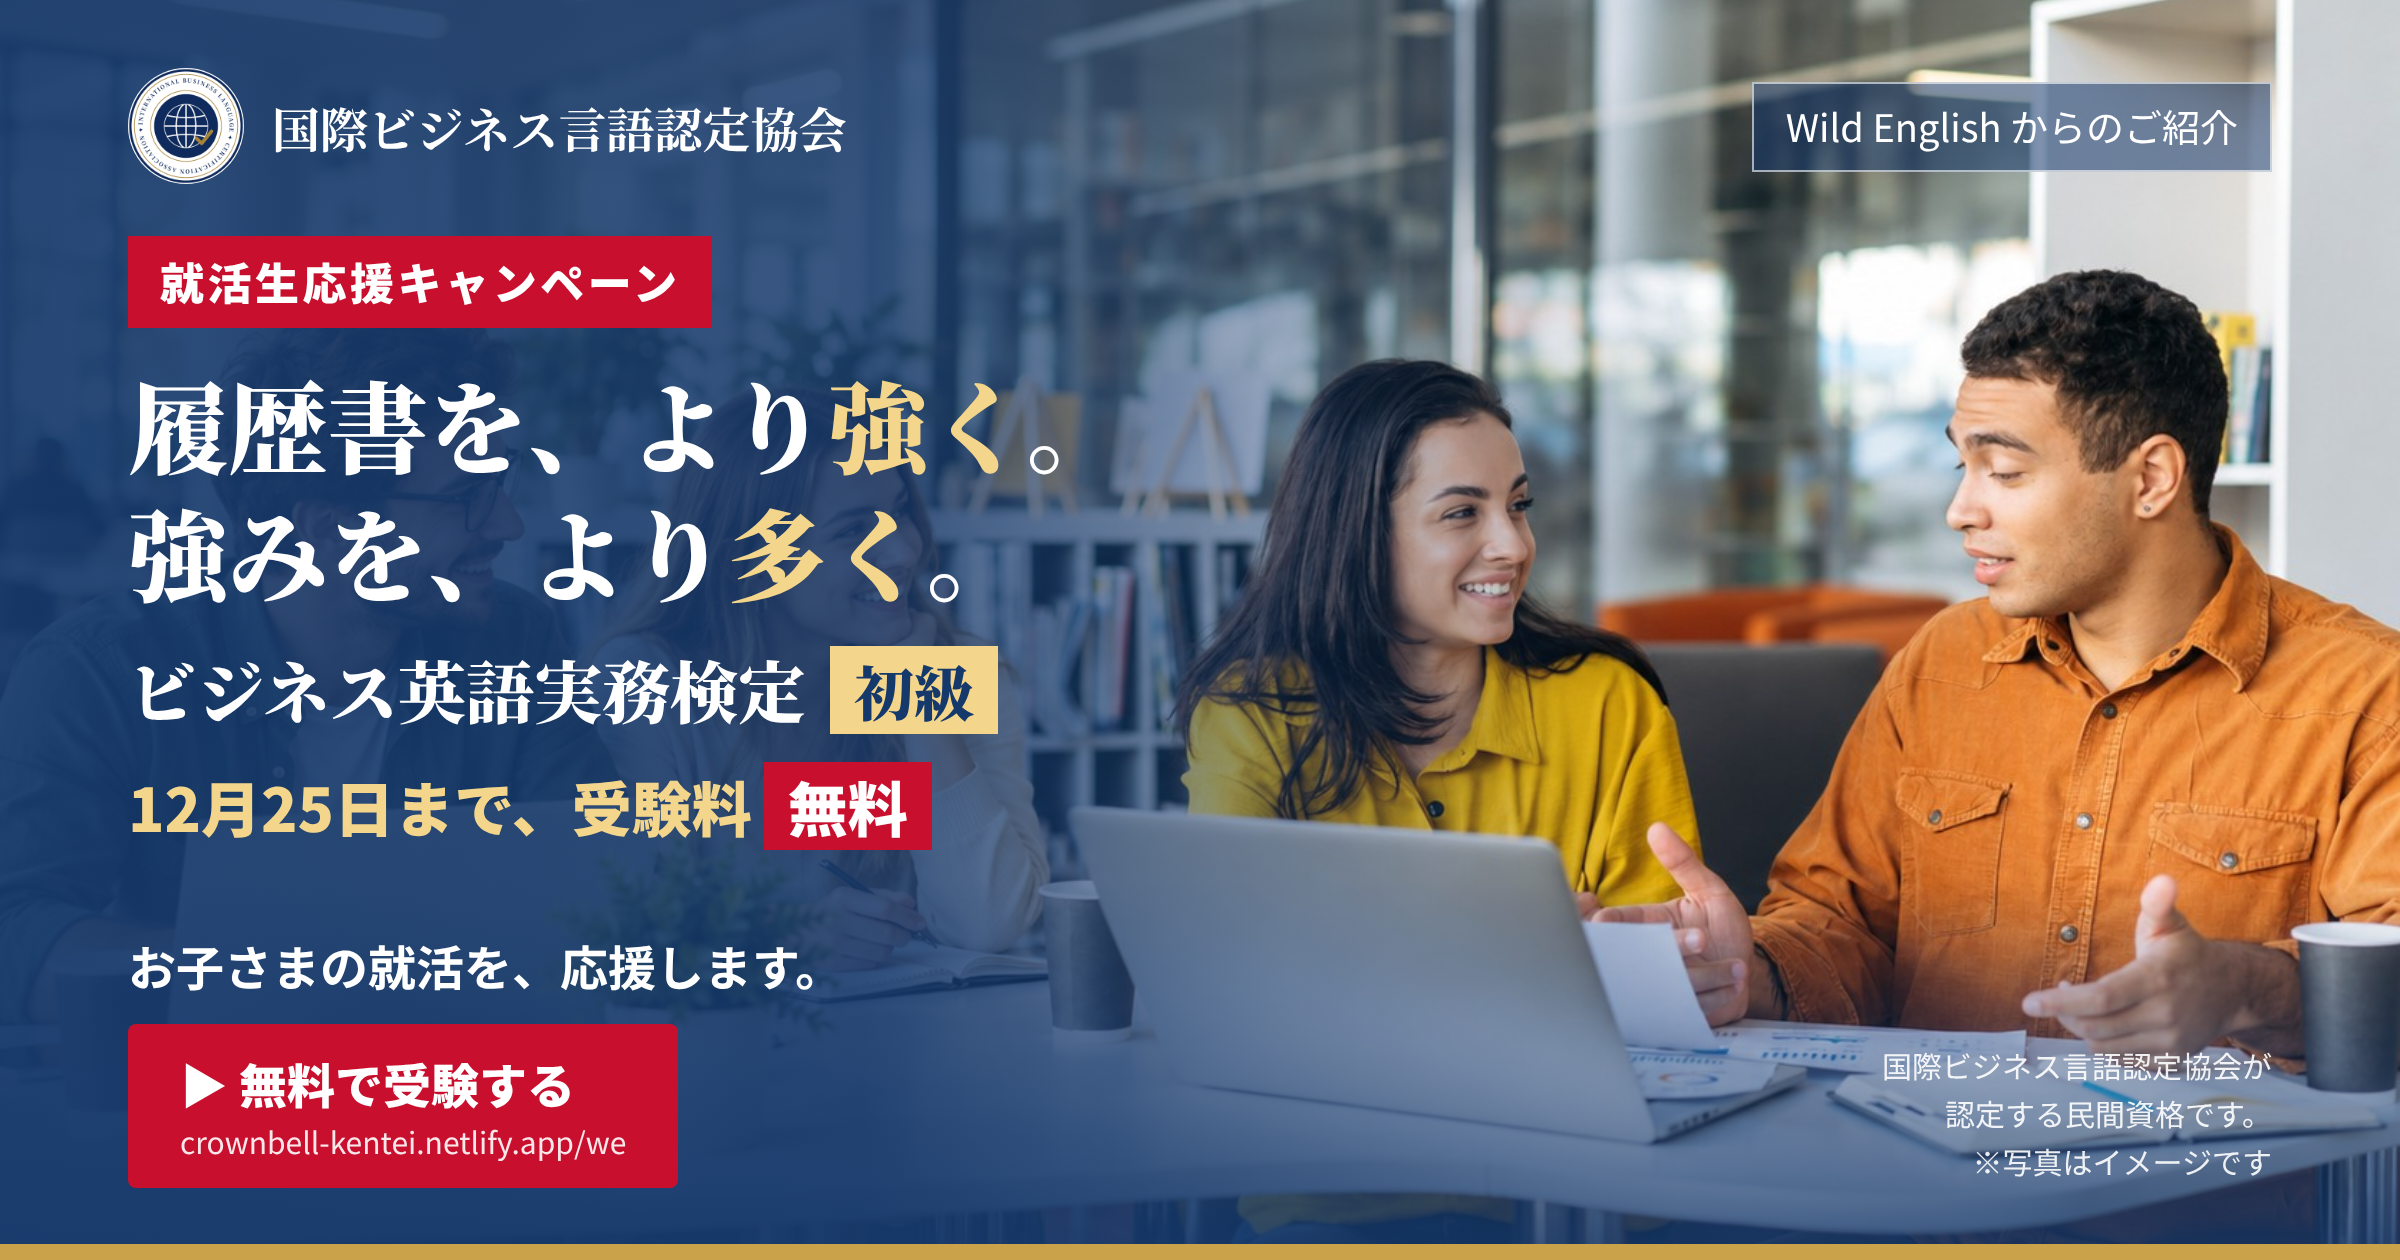
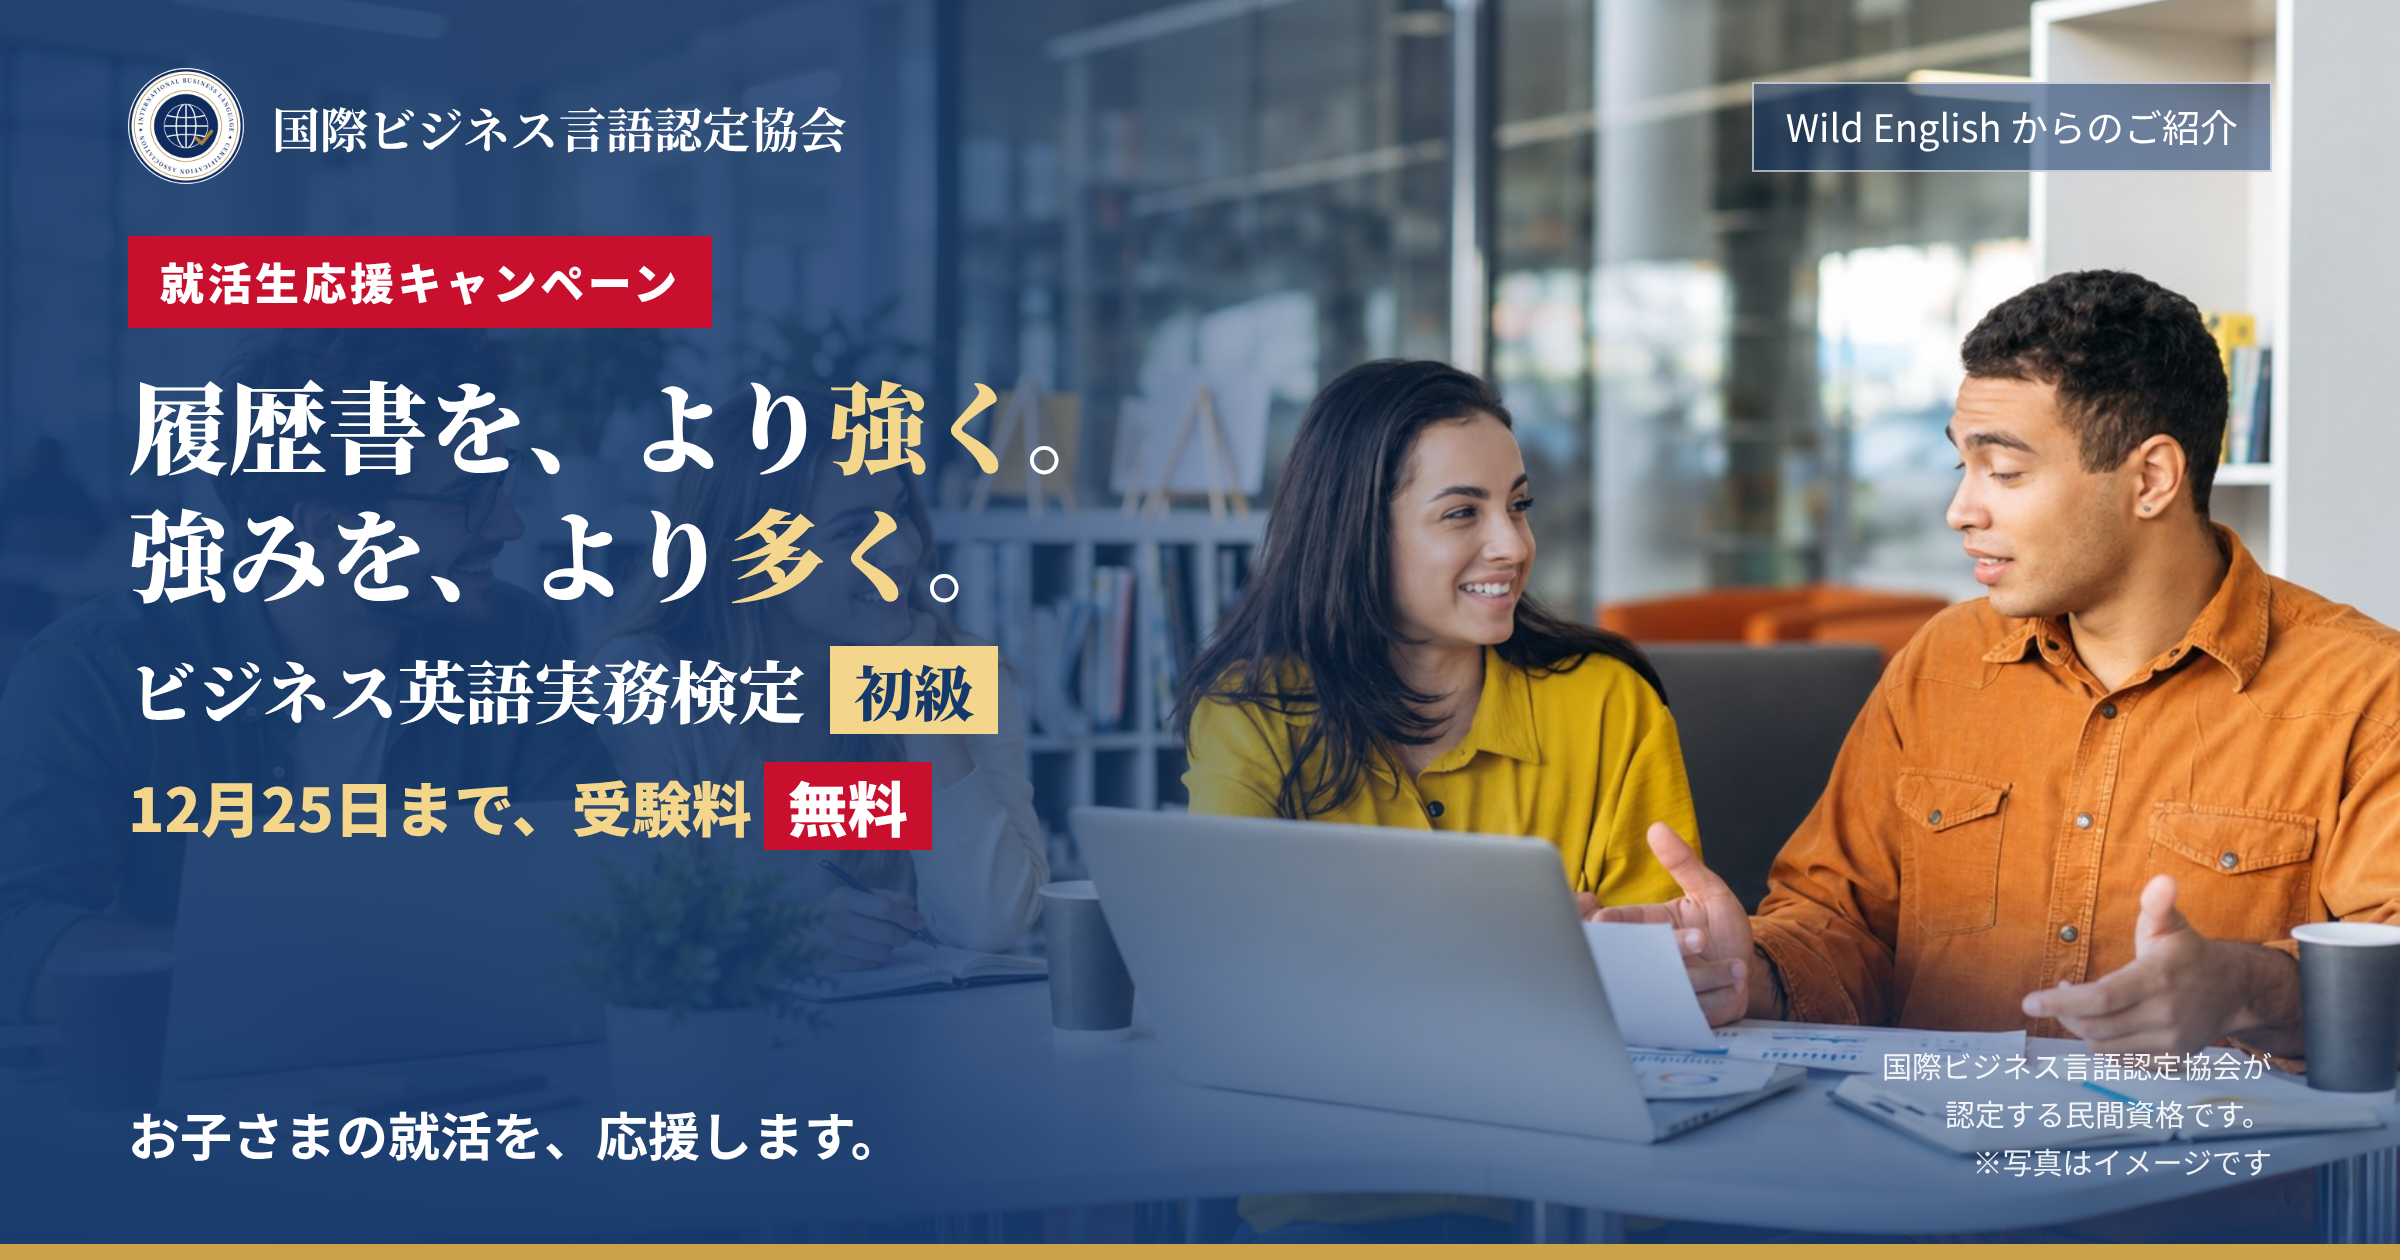
FB広告：画像のボタンを削除（リンクは投稿文で）
Claude-Session: https://claude.ai/code/session_01T3NaLWbuuvRT9b8SoudneK

Changed region(s): [[0.0312, 0.7429, 0.375, 0.9595]]

diff --git a/assets/本陣へ/fb_src/bright_1080.html b/assets/本陣へ/fb_src/bright_1080.html
@@ -20,7 +20,7 @@ h1 em{font-style:normal;color:var(--gold)}
 ul{list-style:none;margin-top:26px}
 li{font-weight:700;font-size:25px;line-height:1.8}
 li:before{content:"◆ ";color:var(--gold)}
-.parent{position:absolute;left:64px;bottom:178px;font-size:30px;font-weight:700}
+.parent{position:absolute;left:64px;bottom:60px;font-size:32px;font-weight:700}
 .btn{position:absolute;left:64px;bottom:52px;background:var(--red);font-weight:900;font-size:32px;padding:18px 36px;border-radius:4px}
 .btn small{display:block;font-size:15px;font-weight:400;opacity:.9;margin-top:2px}
 .note{position:absolute;right:64px;bottom:58px;font-size:15px;text-align:right;line-height:1.6;opacity:.9}
@@ -36,7 +36,7 @@ li:before{content:"◆ ";color:var(--gold)}
 <ul><li>スマホで20分、24時間いつでも受験</li><li>合格すると、認定番号入りの合格証を発行</li><li>履歴書の資格欄に書ける</li></ul>
 </div>
 <div class="parent">お子さまの就活を、応援します。</div>
-<div class="btn">▶ 無料で受験する<small>crownbell-kentei.netlify.app/we</small></div>
+
 <div class="note">国際ビジネス言語認定協会が<br>認定する民間資格です。<br>※写真はイメージです</div>
 <div class="line"></div>
 </body></html>

diff --git a/assets/本陣へ/fb_src/bright_1200x630.html b/assets/本陣へ/fb_src/bright_1200x630.html
@@ -20,7 +20,7 @@ h1 em{font-style:normal;color:var(--gold)}
 ul{display:none}
 li{font-weight:700;font-size:27px;line-height:1.9}
 li:before{content:"◆ ";color:var(--gold)}
-.parent{position:absolute;left:64px;bottom:130px;font-size:24px;font-weight:700}
+.parent{position:absolute;left:64px;bottom:44px;font-size:26px;font-weight:700}
 .btn{position:absolute;left:64px;bottom:36px;background:var(--red);font-weight:900;font-size:24px;padding:12px 26px;border-radius:4px}
 .btn small{display:block;font-size:15px;font-weight:400;opacity:.9;margin-top:2px}
 .note{position:absolute;right:64px;bottom:36px;font-size:15px;text-align:right;line-height:1.6;opacity:.9}
@@ -36,7 +36,7 @@ li:before{content:"◆ ";color:var(--gold)}
 <ul><li>スマホで20分、24時間いつでも受験</li><li>合格すると、認定番号入りの合格証を発行</li><li>履歴書の資格欄に書ける</li></ul>
 </div>
 <div class="parent">お子さまの就活を、応援します。</div>
-<div class="btn">▶ 無料で受験する<small>crownbell-kentei.netlify.app/we</small></div>
+
 <div class="note">国際ビジネス言語認定協会が<br>認定する民間資格です。<br>※写真はイメージです</div>
 <div class="line"></div>
 </body></html>
